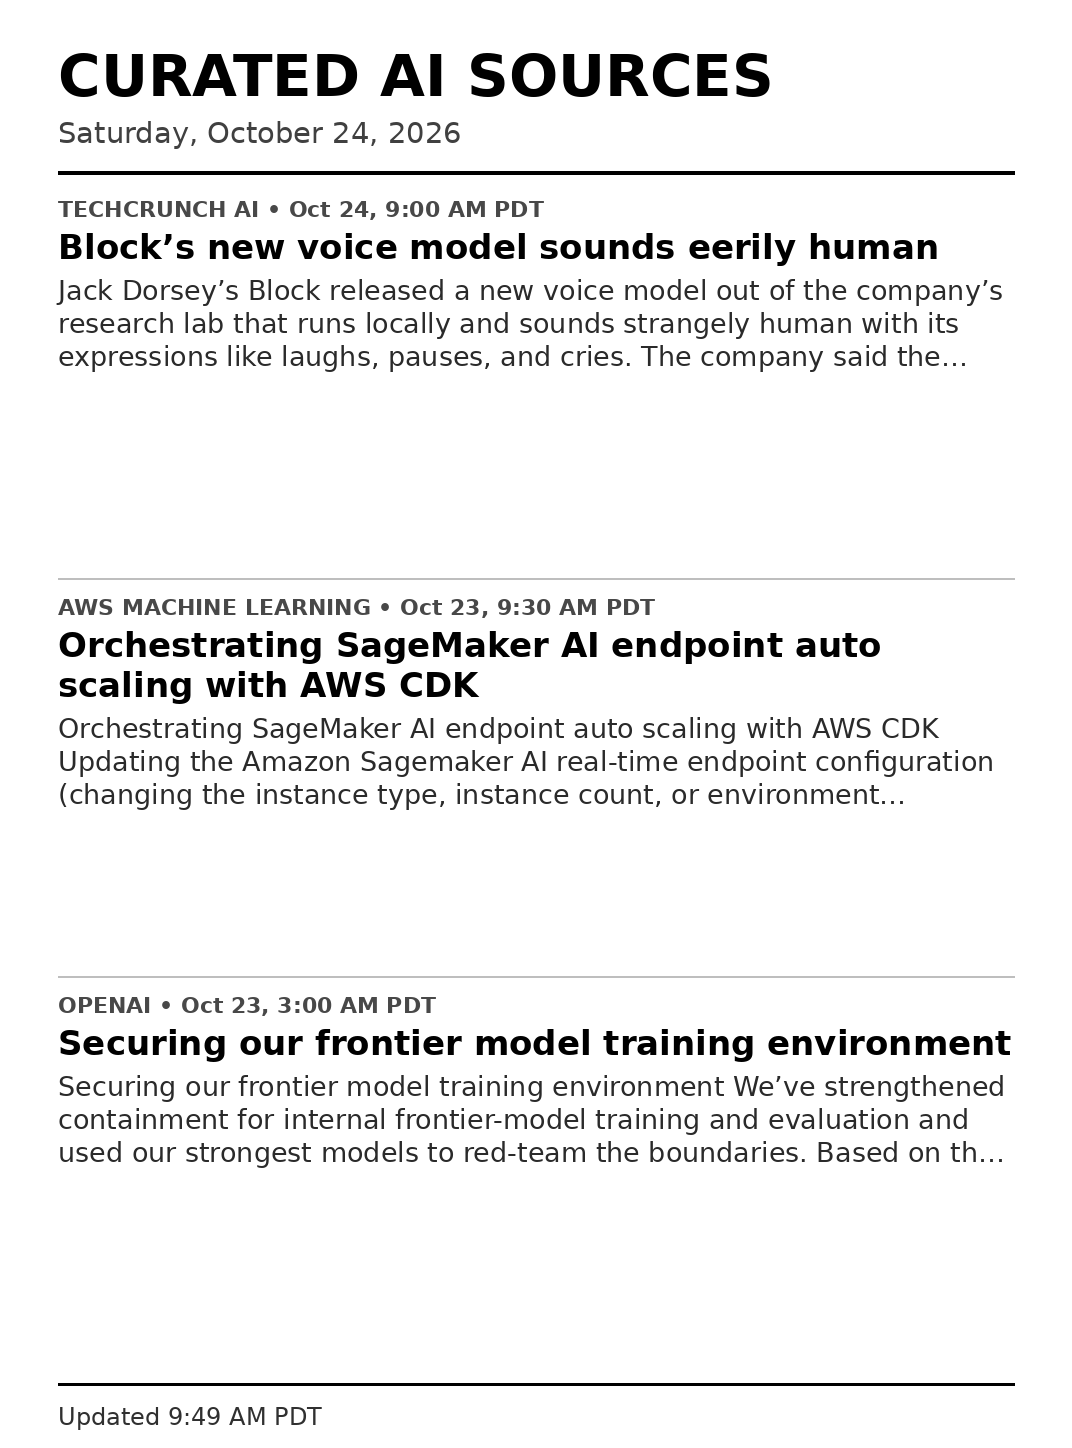
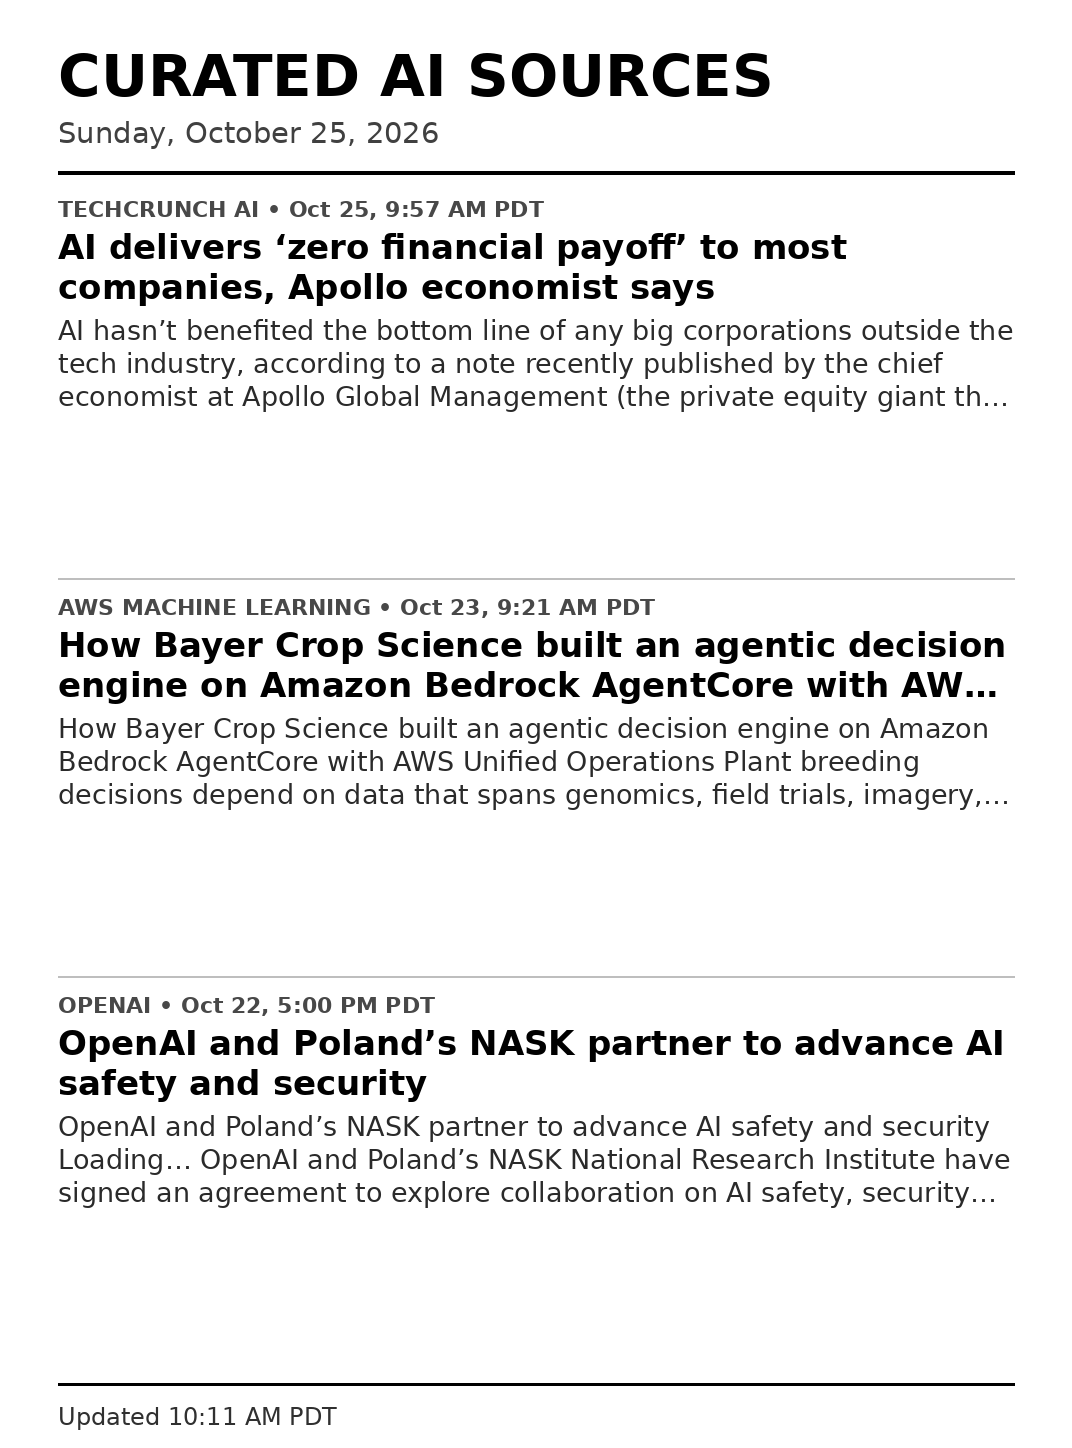
Update curated AI briefing

diff --git a/sources.html b/sources.html
@@ -28,10 +28,10 @@ a {
 <h1>My Curated AI Sources</h1>
 <p>
 Sources used for the briefing published
-October 24, 2026.
+October 25, 2026.
 </p>
 <ol>
-<li><a href="https://techcrunch.com/2026/10/24/blocks-new-voice-model-sounds-eerily-human/">Block’s new voice model sounds eerily human</a><br><span>TechCrunch AI · Oct 24, 2026 9:00 AM PDT</span></li><li><a href="https://aws.amazon.com/blogs/machine-learning/orchestrating-sagemaker-ai-endpoint-auto-scaling-with-aws-cdk/">Orchestrating SageMaker AI endpoint auto scaling with AWS CDK</a><br><span>AWS Machine Learning · Oct 23, 2026 9:30 AM PDT</span></li><li><a href="https://openai.com/index/securing-our-frontier-model-training-environment">Securing our frontier model training environment</a><br><span>OpenAI · Oct 23, 2026 3:00 AM PDT</span></li><li><a href="https://techcrunch.com/2026/10/24/forced-to-pick-groks-ai-model-chooses-republicans-openais-picks-democrats/">Forced to pick, Grok’s AI model chooses Republicans. OpenAI’s picks Democrats.</a><br><span>TechCrunch AI · Oct 24, 2026 8:00 AM PDT</span></li><li><a href="https://aws.amazon.com/blogs/machine-learning/visualize-points-and-routes-with-geojson-in-amazon-quick-sight-layer-maps/">Visualize points and routes with GeoJSON in Amazon Quick Sight layer maps</a><br><span>AWS Machine Learning · Oct 23, 2026 9:24 AM PDT</span></li>
+<li><a href="https://techcrunch.com/2026/10/25/ai-delivers-zero-financial-payoff-to-most-companies-according-to-apollo-economist/">AI delivers ‘zero financial payoff’ to most companies, Apollo economist says</a><br><span>TechCrunch AI · Oct 25, 2026 9:57 AM PDT</span></li><li><a href="https://aws.amazon.com/blogs/machine-learning/how-bayer-crop-science-built-an-agentic-decision-engine-on-amazon-bedrock-agentcore-with-aws-unified-operations/">How Bayer Crop Science built an agentic decision engine on Amazon Bedrock AgentCore with AWS Unified Operations</a><br><span>AWS Machine Learning · Oct 23, 2026 9:21 AM PDT</span></li><li><a href="https://openai.com/index/openai-nask-ai-safety-security-partnership">OpenAI and Poland’s NASK partner to advance AI safety and security</a><br><span>OpenAI · Oct 22, 2026 5:00 PM PDT</span></li><li><a href="https://huggingface.co/blog/torch-neuronx-model-support">Does Your Model Run on AWS Trainium? Look It Up</a><br><span>Hugging Face · Oct 22, 2026 5:00 PM PDT</span></li><li><a href="https://www.technologyreview.com/2026/10/22/1146103/the-foundations-of-scalable-ai/">The Foundations of Scalable AI</a><br><span>MIT Technology Review · Oct 22, 2026 11:48 AM PDT</span></li><li><a href="https://techcrunch.com/2026/10/25/the-hottest-ai-wearables-and-gadgets-you-should-know-about/">The hottest AI wearables and gadgets you should know about</a><br><span>TechCrunch AI · Oct 25, 2026 7:10 AM PDT</span></li><li><a href="https://huggingface.co/blog/microsoft/thinkingbox-training">Turning Database Grading into RL Rewards: Post-Training Agents with ThinkingBox</a><br><span>Hugging Face · Oct 22, 2026 3:24 PM PDT</span></li><li><a href="https://openai.com/index/decisions-api">Build more responsive apps with the Decisions API</a><br><span>OpenAI · Oct 22, 2026 12:00 PM PDT</span></li>
 </ol>
 </body>
 </html>
